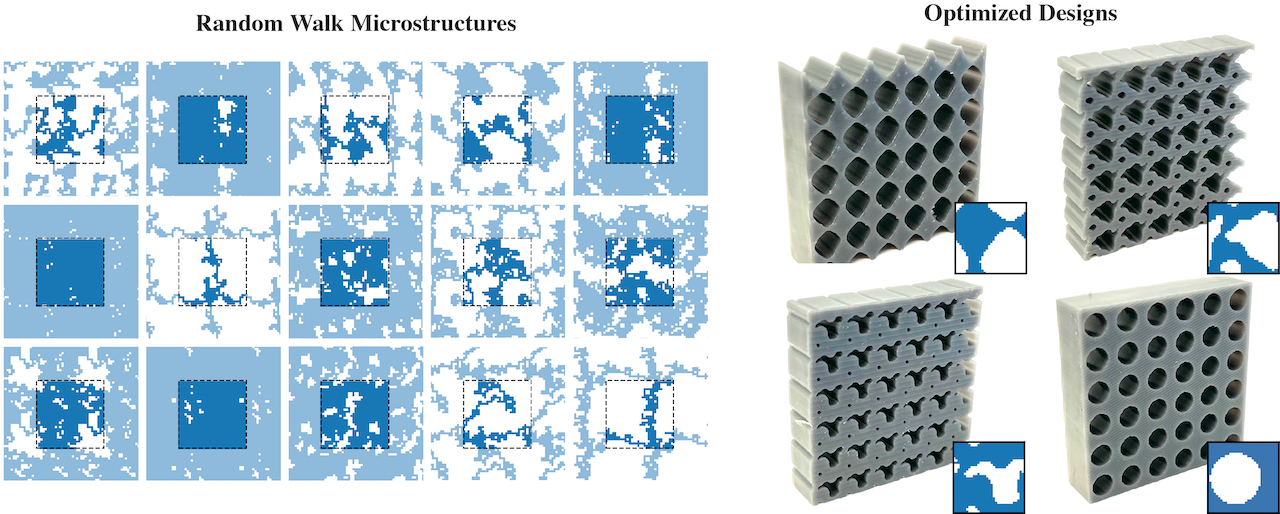
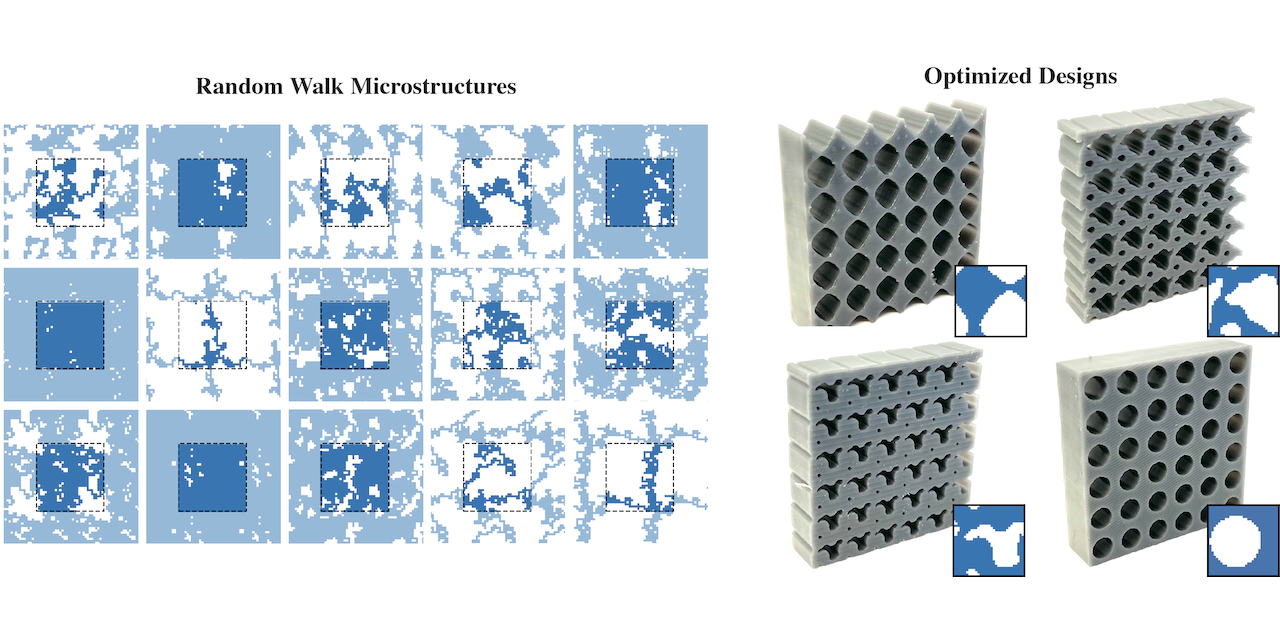
Dedicated argparse validation in tools

diff --git a/tools/topopt.py b/tools/topopt.py
@@ -3,7 +3,7 @@ from __future__ import annotations
 
 from argparse import ArgumentDefaultsHelpFormatter, ArgumentParser
 from pathlib import Path
-from typing import get_args, Literal
+from typing import get_args, Literal, TYPE_CHECKING
 
 from matplotlib import pyplot as plt
 from matplotlib.colors import LinearSegmentedColormap
@@ -15,6 +15,9 @@ import torch
 from torch import nn
 from torch import optim
 from tqdm import trange
+
+if TYPE_CHECKING:
+    from argparse import Namespace
 
 DTYPE = DEFAULT_DTYPE
 DEVICE = 'cpu'
@@ -164,30 +167,31 @@ def build_parser() -> ArgumentParser:
 
     parser.add_argument('--vf', type=float, required=True, help='Target volume fraction.')
     parser.add_argument('--objective', choices=get_args(Objective), default='iso', help='Topology optimization objective function.')
-    parser.add_argument('--model-dir', type=Path, default=Path('results'), help='Output directory for saved model.')
-    parser.add_argument('--out-dir', type=Path, default=Path('results'), help='Output directory for saved results.')
+    parser.add_argument('--dir', type=Path, default=Path('results'), help='Directory containing the saved model.')
+    parser.add_argument('--out-dir', type=Path, default=Path('results'), help='Output directory for the saved results.')
     parser.add_argument('--smooth-start', type=float, default=1.0, help='Initial weight of the smoothness penalization.')
     parser.add_argument('--smooth-end', type=float, default=100.0, help='Final weight of the smoothness penalization.')
     parser.add_argument('--density-start', type=float, default=1.0, help='Initial weight of the density penalization.')
     parser.add_argument('--density-end', type=float, default=100.0, help='Final weight of the density penalization.')
     parser.add_argument('--epochs', type=int, default=1000, help='Number of epochs.')
+    parser.add_argument('--lr', type=float, default=0.01, help='Learning rate.')
     parser.add_argument('--seed', type=int, default=3019, help='RNG seed.')
     parser.add_argument('--visualize', action='store_true', help='Visualize optimization.')
 
     return parser
 
 
-def main() -> None:
-    """Topology optimization from the command line.
+def validate_cli_arguments(args: Namespace, parser: ArgumentParser) -> None:
+    """Validate command-line interface (CLI) arguments.
+
+    Parameters
+    ----------
+    args : argparse.Namespace
+        CLI arguments.
+    parser : argparse.ArgumentParser
+        Parser used to raise errors.
 
     """
-    #############################################
-    ########## CLI argument validation ##########
-    #############################################
-
-    parser = build_parser()
-    args = parser.parse_args()
-
     if args.vf < 0 or args.vf > 1:
         parser.error(f'--vf must be in [0, 1], got {args.vf}.')
 
@@ -209,9 +213,26 @@ def main() -> None:
     if args.epochs <= 0:
         parser.error(f'--epochs must be positive, got {args.epochs}.')
 
+    if args.lr <= 0:
+        parser.error(f'--lr must be positive, got {args.lr}.')
+
     max_seed = 2**32 - 1
     if args.seed < 0 or args.seed > max_seed:
         parser.error(f'--seed must be in [0, {max_seed}], got {args.seed}.')
+
+
+def main() -> None:
+    """Topology optimization from the command line.
+
+    """
+    #############################################
+    ########## CLI argument validation ##########
+    #############################################
+
+    parser = build_parser()
+    args = parser.parse_args()
+
+    validate_cli_arguments(args=args, parser=parser)
 
     ###########################
     ########## Setup ##########
@@ -242,7 +263,7 @@ def main() -> None:
     design = Design().to(dtype=DTYPE, device=DEVICE)
 
     # Optimizer
-    optimizer = optim.Adam(design.parameters(), lr=0.01)
+    optimizer = optim.Adam(design.parameters(), lr=args.lr)
 
     # Live visualization setup
     cmap = LinearSegmentedColormap.from_list(name='white_to_C0', colors=['white', 'C0'], N=256)

diff --git a/tools/train.py b/tools/train.py
@@ -4,7 +4,7 @@ from __future__ import annotations
 from argparse import ArgumentDefaultsHelpFormatter, ArgumentParser
 from copy import deepcopy
 from pathlib import Path
-from typing import List
+from typing import List, TYPE_CHECKING
 
 from matplotlib import pyplot as plt
 from random_walk_microstructures import DEFAULT_DTYPE, DEFAULT_DEVICE
@@ -14,6 +14,9 @@ from torch import nn
 from torch import optim
 from torch.utils.data import TensorDataset, DataLoader
 from tqdm import trange
+
+if TYPE_CHECKING:
+    from argparse import Namespace
 
 DTYPE = DEFAULT_DTYPE
 DEVICE = DEFAULT_DEVICE
@@ -35,7 +38,8 @@ def build_parser() -> ArgumentParser:
     parser.add_argument('--percent-valid', type=float, default=0.05, help='Fraction of samples used for validation.')
     parser.add_argument('--seed', type=int, default=3019, help='RNG seed.')
     parser.add_argument('--batch-size', type=int, default=64, help='Batch size.')
-    parser.add_argument('--out-dir', type=Path, default=Path('results'), help='Output directory for saved model.')
+    parser.add_argument('--lr', type=float, default=1e-4, help='Learning rate.')
+    parser.add_argument('--out-dir', type=Path, default=Path('results'), help='Output directory for the saved model.')
     parser.add_argument('--resume', action='store_true', help='Resume training.')
 
     return parser
@@ -70,17 +74,17 @@ def visualize_losses(train_losses: List[float], valid_losses: List[float], file:
         plt.show()
 
 
-def main() -> None:
-    """Train surrogate model from the command line.
+def validate_cli_arguments(args: Namespace, parser: ArgumentParser) -> None:
+    """Validate command-line interface (CLI) arguments.
+
+    Parameters
+    ----------
+    args : argparse.Namespace
+        CLI arguments.
+    parser : argparse.ArgumentParser
+        Parser used to raise errors.
 
     """
-    #############################################
-    ########## CLI argument validation ##########
-    #############################################
-
-    parser = build_parser()
-    args = parser.parse_args()
-
     if args.epochs <= 0:
         parser.error(f'--epochs must be positive, got {args.epochs}.')
 
@@ -97,8 +101,25 @@ def main() -> None:
     if args.batch_size <= 0:
         parser.error(f'--batch-size must be positive, got {args.batch_size}.')
 
+    if args.lr <= 0:
+        parser.error(f'--lr must be positive, got {args.lr}.')
+
     if args.resume:
         args.resume = (args.out_dir / 'checkpoint.pt').is_file()
+
+
+def main() -> None:
+    """Train surrogate model from the command line.
+
+    """
+    #############################################
+    ########## CLI argument validation ##########
+    #############################################
+
+    parser = build_parser()
+    args = parser.parse_args()
+
+    validate_cli_arguments(args=args, parser=parser)
 
     ###########################
     ########## Setup ##########
@@ -142,9 +163,9 @@ def main() -> None:
 
     print_model(model)
 
-    #Criterion and optimizer
+    # Criterion and optimizer
     criterion = nn.MSELoss()
-    optimizer = optim.Adam(params=model.parameters(), lr=1e-4)
+    optimizer = optim.Adam(params=model.parameters(), lr=args.lr)
 
     ##############################
     ########## Training ##########
@@ -222,6 +243,8 @@ def main() -> None:
 
         model.load_state_dict(state_dict=model_state_dict)
         optimizer.load_state_dict(optimizer_state_dict)
+        for param_group in optimizer.param_groups:
+            param_group['lr'] = args.lr
 
     # Training loop
     start_epoch = len(train_losses) + 1

diff --git a/tools/test.py b/tools/test.py
@@ -4,12 +4,16 @@ from __future__ import annotations
 from argparse import ArgumentDefaultsHelpFormatter, ArgumentParser
 from pathlib import Path
 import time
+from typing import TYPE_CHECKING
 
 from random_walk_microstructures import DEFAULT_DTYPE, DEFAULT_DEVICE
 from random_walk_microstructures import set_seed, load_data, split_indices, get_outputs_processor, CNN, data_transform
 import torch
 from torch import nn
 from torch.utils.data import TensorDataset, DataLoader
+
+if TYPE_CHECKING:
+    from argparse import Namespace
 
 DTYPE = DEFAULT_DTYPE
 DEVICE = DEFAULT_DEVICE
@@ -26,13 +30,38 @@ def build_parser() -> ArgumentParser:
     """
     parser = ArgumentParser(description='Test surrogate model.', formatter_class=ArgumentDefaultsHelpFormatter)
 
-    parser.add_argument('--percent-train', type=float, default=0.9, help='Fraction of samples used for training.')
-    parser.add_argument('--percent-valid', type=float, default=0.05, help='Fraction of samples used for validation.')
-    parser.add_argument('--seed', type=int, default=3019, help='RNG seed.')
+    parser.add_argument('--percent-train', type=float, default=0.9, help='Fraction of samples used for training during surrogate model training.')
+    parser.add_argument('--percent-valid', type=float, default=0.05, help='Fraction of samples used for validation during surrogate model training.')
+    parser.add_argument('--seed', type=int, default=3019, help='RNG seed used during surrogate model training.')
     parser.add_argument('--batch-size', type=int, default=64, help='Batch size.')
-    parser.add_argument('--dir', type=Path, default=Path('results'), help='Directory for saved model.')
+    parser.add_argument('--dir', type=Path, default=Path('results'), help='Directory containing the saved model.')
 
     return parser
+
+
+def validate_cli_arguments(args: Namespace, parser: ArgumentParser) -> None:
+    """Validate command-line interface (CLI) arguments.
+
+    Parameters
+    ----------
+    args : argparse.Namespace
+        CLI arguments.
+    parser : argparse.ArgumentParser
+        Parser used to raise errors.
+
+    """
+    if args.percent_train <= 0 or args.percent_train > 1:
+        parser.error(f'--percent-train must be in (0, 1], got {args.percent_train}.')
+
+    if args.percent_valid <= 0 or args.percent_train + args.percent_valid > 1:
+        parser.error(f'--percent-valid must be in (0, {1 - args.percent_train}], got {args.percent_valid}.')
+
+    max_seed = 2**32 - 1
+    if args.seed < 0 or args.seed > max_seed:
+        parser.error(f'--seed must be in [0, {max_seed}], got {args.seed}.')
+
+    if args.batch_size <= 0:
+        parser.error(f'--batch-size must be positive, got {args.batch_size}.')
 
 
 def main() -> None:
@@ -46,18 +75,7 @@ def main() -> None:
     parser = build_parser()
     args = parser.parse_args()
 
-    if args.percent_train <= 0 or args.percent_train > 1:
-        parser.error(f'--percent-train must be in (0, 1], got {args.percent_train}.')
-
-    if args.percent_valid <= 0 or args.percent_train + args.percent_valid > 1:
-        parser.error(f'--percent-valid must be in (0, {1 - args.percent_train}], got {args.percent_valid}.')
-
-    max_seed = 2**32 - 1
-    if args.seed < 0 or args.seed > max_seed:
-        parser.error(f'--seed must be in [0, {max_seed}], got {args.seed}.')
-
-    if args.batch_size <= 0:
-        parser.error(f'--batch-size must be positive, got {args.batch_size}.')
+    validate_cli_arguments(args=args, parser=parser)
 
     ###########################
     ########## Setup ##########

diff --git a/tools/export_to_mesh.py b/tools/export_to_mesh.py
@@ -3,6 +3,7 @@ from __future__ import annotations
 
 from argparse import ArgumentDefaultsHelpFormatter, ArgumentParser
 from pathlib import Path
+from typing import TYPE_CHECKING
 
 import matplotlib.pyplot as plt
 from matplotlib.colors import LinearSegmentedColormap
@@ -10,6 +11,9 @@ from matplotlib.collections import PolyCollection
 import numpy as np
 from skimage import measure, filters
 import triangle as tr
+
+if TYPE_CHECKING:
+    from argparse import Namespace
 
 CURR_DIR = Path(__file__).resolve().parent
 
@@ -33,6 +37,24 @@ def build_parser() -> ArgumentParser:
     return parser
 
 
+def validate_cli_arguments(args: Namespace, parser: ArgumentParser) -> None:
+    """Validate command-line interface (CLI) arguments.
+
+    Parameters
+    ----------
+    args : argparse.Namespace
+        CLI arguments.
+    parser : argparse.ArgumentParser
+        Parser used to raise errors.
+
+    """
+    if args.n <= 0:
+        parser.error(f'--n must be positive, got {args.n}.')
+
+    if args.t <= 0:
+        parser.error(f'--t must be positive, got {args.t}.')
+
+
 def main() -> None:
     """Export microstructure design stored in CSV file to an OBJ mesh from the command line.
 
@@ -44,11 +66,7 @@ def main() -> None:
     parser = build_parser()
     args = parser.parse_args()
 
-    if args.n <= 0:
-        parser.error(f'--n must be positive, got {args.n}.')
-
-    if args.t <= 0:
-        parser.error(f'--t must be positive, got {args.t}.')
+    validate_cli_arguments(args=args, parser=parser)
 
     ###########################
     ########## Setup ##########
@@ -62,7 +80,7 @@ def main() -> None:
     in_file = Path(args.file).resolve()
 
     # Output OBJ file
-    out_file = in_file.with_suffix('.obj')
+    out_file = in_file.with_suffix(suffix='.obj')
 
     cmap = LinearSegmentedColormap.from_list(name='white_to_C0', colors=['white', 'C0'], N=256)
 

diff --git a/README.md b/README.md
@@ -51,7 +51,7 @@ The codebase is organized into two parts:
 
 > [!NOTE]
 > Each tool can be run from the repository root.
-> For info on a specific tool/args run:
+> For info on a specific tool run:
 >
 > ```bash
 > python tools/[TOOL].py --help
@@ -64,8 +64,7 @@ The codebase is organized into two parts:
 ## Acknowledgements
 
 The authors would like to thank Ruichen Liu for fabricating the optimized microstructure designs and Alec Ewe for running the compression tests on the fabricated samples.
-This work was supported by a Focused Research Program from the Rafik B. Hariri Institute for Computing and Computational Science & Engineering at Boston University and by the National Science Foundation
-(DMR-2323728).
+This work was supported by a Focused Research Program from the Rafik B. Hariri Institute for Computing and Computational Science & Engineering at Boston University and by the National Science Foundation (DMR-2323728).
 
 ## Citation
 
